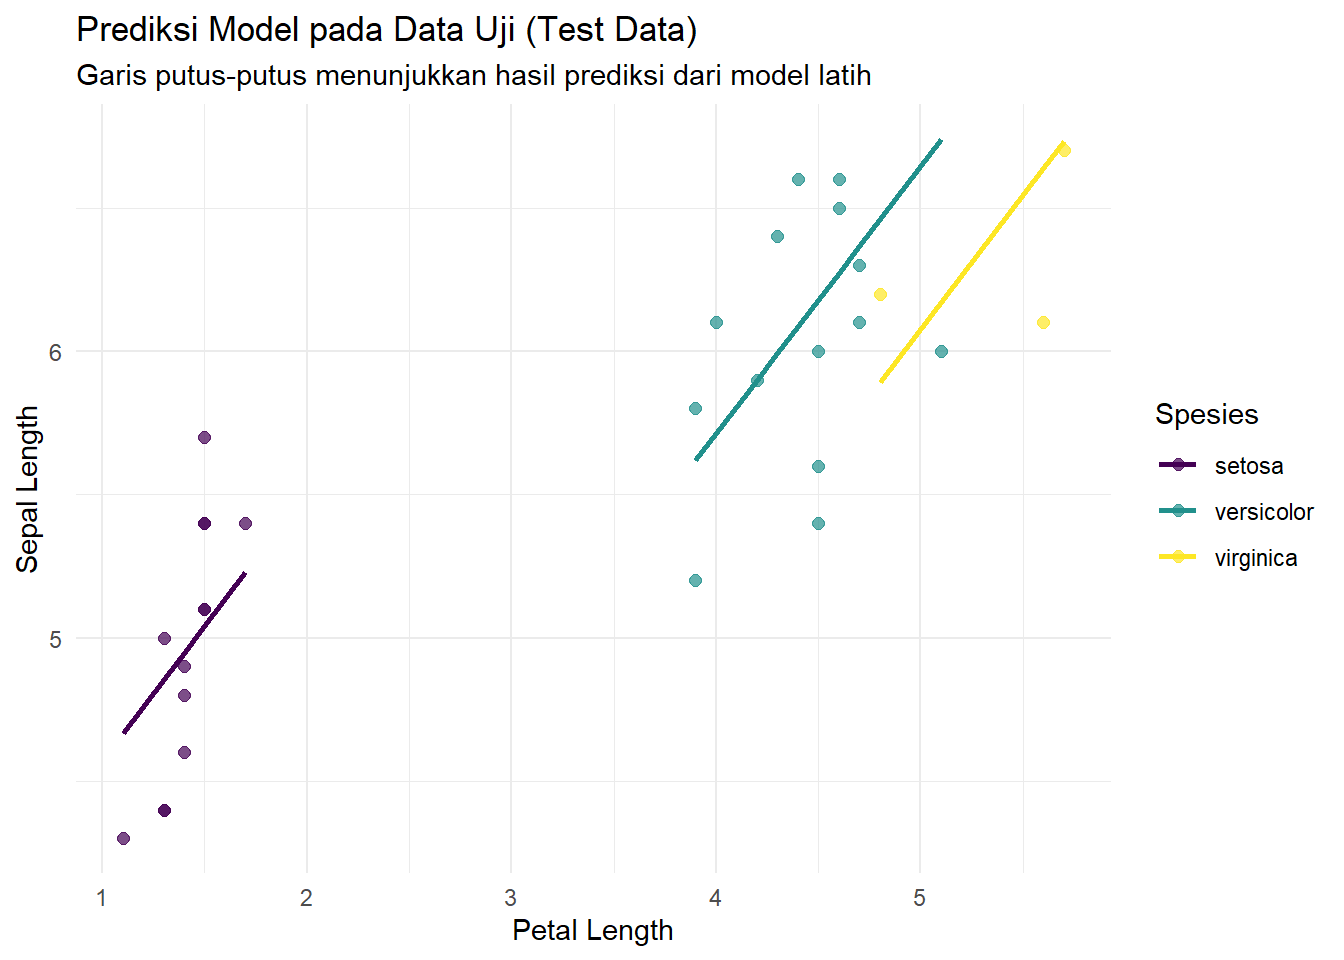
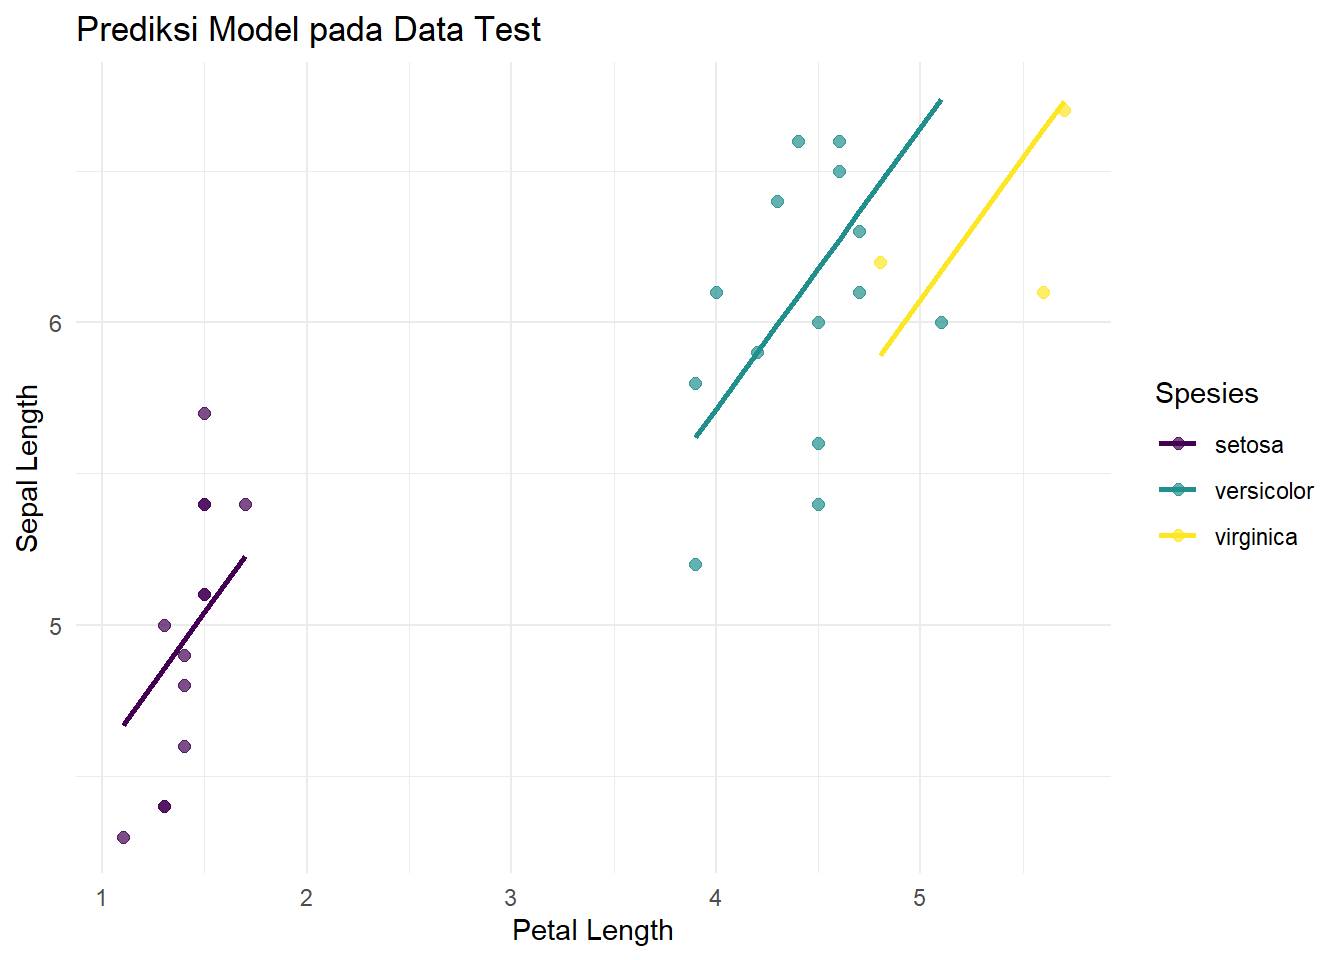
updated modul 2 molin

diff --git a/docs/modul/2026/genap/model_linier/modul2.html b/docs/modul/2026/genap/model_linier/modul2.html
@@ -710,9 +710,9 @@ F-statistic: 228.5 on 3 and 116 DF,  p-value: &lt; 2.2e-16</code></pre>
 <pre><code>[1] 0.3817348</code></pre>
 </div>
 <div class="code-copy-outer-scaffold"><div class="sourceCode cell-code" id="cb22"><pre class="sourceCode r code-with-copy"><code class="sourceCode r"><span id="cb22-1"><a href="#cb22-1" aria-hidden="true" tabindex="-1"></a><span class="co"># R-squared</span></span>
-<span id="cb22-2"><a href="#cb22-2" aria-hidden="true" tabindex="-1"></a>SS_res_test <span class="ot">&lt;-</span> <span class="fu">sum</span>(data_test<span class="sc">$</span>Error<span class="sc">^</span><span class="dv">2</span>)</span>
-<span id="cb22-3"><a href="#cb22-3" aria-hidden="true" tabindex="-1"></a>SS_tot_test <span class="ot">&lt;-</span> <span class="fu">sum</span>((data_test<span class="sc">$</span>Sepal.Length <span class="sc">-</span> <span class="fu">mean</span>(data_test<span class="sc">$</span>Sepal.Length))<span class="sc">^</span><span class="dv">2</span>)</span>
-<span id="cb22-4"><a href="#cb22-4" aria-hidden="true" tabindex="-1"></a>test_r2 <span class="ot">&lt;-</span> <span class="dv">1</span> <span class="sc">-</span> (SS_res_test <span class="sc">/</span> SS_tot_test)</span>
+<span id="cb22-2"><a href="#cb22-2" aria-hidden="true" tabindex="-1"></a>SSR_test <span class="ot">&lt;-</span> <span class="fu">sum</span>(data_test<span class="sc">$</span>Error<span class="sc">^</span><span class="dv">2</span>)</span>
+<span id="cb22-3"><a href="#cb22-3" aria-hidden="true" tabindex="-1"></a>SST_test <span class="ot">&lt;-</span> <span class="fu">sum</span>((data_test<span class="sc">$</span>Sepal.Length <span class="sc">-</span> <span class="fu">mean</span>(data_test<span class="sc">$</span>Sepal.Length))<span class="sc">^</span><span class="dv">2</span>)</span>
+<span id="cb22-4"><a href="#cb22-4" aria-hidden="true" tabindex="-1"></a>test_r2 <span class="ot">&lt;-</span> <span class="dv">1</span> <span class="sc">-</span> (SSR_test <span class="sc">/</span> SST_test)</span>
 <span id="cb22-5"><a href="#cb22-5" aria-hidden="true" tabindex="-1"></a>test_r2</span></code></pre></div><button title="Copy to Clipboard" class="code-copy-button"><i class="bi"></i></button></div>
 <div class="cell-output cell-output-stdout">
 <pre><code>[1] 0.7005723</code></pre>
@@ -721,12 +721,11 @@ F-statistic: 228.5 on 3 and 116 DF,  p-value: &lt; 2.2e-16</code></pre>
 <span id="cb24-2"><a href="#cb24-2" aria-hidden="true" tabindex="-1"></a>  <span class="fu">geom_point</span>(<span class="fu">aes</span>(<span class="at">y =</span> Sepal.Length), <span class="at">size =</span> <span class="dv">2</span>, <span class="at">alpha =</span> <span class="fl">0.7</span>) <span class="sc">+</span></span>
 <span id="cb24-3"><a href="#cb24-3" aria-hidden="true" tabindex="-1"></a>  <span class="fu">geom_line</span>(<span class="fu">aes</span>(<span class="at">y =</span> Predicted_Sepal_Length), <span class="at">linewidth =</span> <span class="dv">1</span>) <span class="sc">+</span></span>
 <span id="cb24-4"><a href="#cb24-4" aria-hidden="true" tabindex="-1"></a>  <span class="fu">scale_color_viridis_d</span>() <span class="sc">+</span></span>
-<span id="cb24-5"><a href="#cb24-5" aria-hidden="true" tabindex="-1"></a>  <span class="fu">labs</span>(<span class="at">title =</span> <span class="st">"Prediksi Model pada Data Uji (Test Data)"</span>,</span>
-<span id="cb24-6"><a href="#cb24-6" aria-hidden="true" tabindex="-1"></a>       <span class="at">subtitle =</span> <span class="st">"Garis putus-putus menunjukkan hasil prediksi dari model latih"</span>,</span>
-<span id="cb24-7"><a href="#cb24-7" aria-hidden="true" tabindex="-1"></a>       <span class="at">x =</span> <span class="st">"Petal Length"</span>,</span>
-<span id="cb24-8"><a href="#cb24-8" aria-hidden="true" tabindex="-1"></a>       <span class="at">y =</span> <span class="st">"Sepal Length"</span>,</span>
-<span id="cb24-9"><a href="#cb24-9" aria-hidden="true" tabindex="-1"></a>       <span class="at">color =</span> <span class="st">"Spesies"</span>) <span class="sc">+</span></span>
-<span id="cb24-10"><a href="#cb24-10" aria-hidden="true" tabindex="-1"></a>  <span class="fu">theme_minimal</span>()</span></code></pre></div><button title="Copy to Clipboard" class="code-copy-button"><i class="bi"></i></button></div>
+<span id="cb24-5"><a href="#cb24-5" aria-hidden="true" tabindex="-1"></a>  <span class="fu">labs</span>(<span class="at">title =</span> <span class="st">"Prediksi Model pada Data Test"</span>,</span>
+<span id="cb24-6"><a href="#cb24-6" aria-hidden="true" tabindex="-1"></a>       <span class="at">x =</span> <span class="st">"Petal Length"</span>,</span>
+<span id="cb24-7"><a href="#cb24-7" aria-hidden="true" tabindex="-1"></a>       <span class="at">y =</span> <span class="st">"Sepal Length"</span>,</span>
+<span id="cb24-8"><a href="#cb24-8" aria-hidden="true" tabindex="-1"></a>       <span class="at">color =</span> <span class="st">"Spesies"</span>) <span class="sc">+</span></span>
+<span id="cb24-9"><a href="#cb24-9" aria-hidden="true" tabindex="-1"></a>  <span class="fu">theme_minimal</span>()</span></code></pre></div><button title="Copy to Clipboard" class="code-copy-button"><i class="bi"></i></button></div>
 <div class="cell-output-display">
 <div>
 <figure class="figure">
